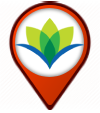
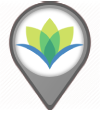
Prepare for demo

diff --git a/Client/src/app/app.component.ts b/Client/src/app/app.component.ts
@@ -1,8 +1,9 @@
 import { Component } from '@angular/core';
-import { tileLayer, latLng, circle, polygon, marker, icon, layerGroup, Map, control } from 'leaflet';
+import { tileLayer, latLng, circle, polygon, marker, icon, layerGroup, Map, control, Marker } from 'leaflet';
 import 'leaflet/dist/images/marker-shadow.png';
 import 'leaflet/dist/images/marker-icon.png';
-import { ClinicsService } from './clinics.service';
+import { ClinicsService } from './services/clinics.service';
+import Clinic from './models/clinic.model';
 
 @Component({
   selector: 'app-root',
@@ -14,37 +15,52 @@ export class AppComponent {
 
   constructor(private clinicsService: ClinicsService){}
 
-  overlayGroup = layerGroup();
+  allMarkers = layerGroup();
+  harshMarkers = layerGroup();
 
   options = {
     layers: [
       tileLayer('http://{s}.tile.openstreetmap.org/{z}/{x}/{y}.png', { maxZoom: 18, attribution: '...' }), 
-      this.overlayGroup,
+      this.allMarkers,
     ],
-    zoom: 10,
-    center: latLng(31.9692438, 34.8382341)
+    zoom: 14,
+    center: latLng(31.9222037, 34.866565)
   };
 
   layersControl = {
-    overlays: {
-      'כל המרפאות': this.overlayGroup,
+    baseLayers: {
+      'כל המרפאות': this.allMarkers,
+      'מחמירה':this.harshMarkers,
     }
   }
 
   onMapReady(map: Map){
     let clinics = this.clinicsService.getClinics();
     console.log(clinics);
-    clinics.forEach(clinic =>{
-      marker([clinic.Location.x, clinic.Location.y], {
-        icon: icon({
-           iconSize: [50, 56],
-           iconAnchor: [25, 56],
-           iconUrl: 'assets/'+clinic.HealthMedicalCenterName+'-'+clinic.ClinicStatus+'.png',
-           popupAnchor: [0, -40]
-        })
-      }).bindPopup(`<div style='font-size: 14px; text-align: center;'>
-        <h1> קופת חולים ${clinic.HealthMedicalCenterName} </h1> ${clinic.CityName}, ${clinic.StreetName} <div>`)
-        .addTo(this.overlayGroup);
+    clinics.forEach(clinic => {
+      this.createClinicMarker(clinic).addTo(this.allMarkers);
+      if(clinic.ShelterPolicy == "מחמירה"){
+        this.createClinicMarker(clinic).addTo(this.harshMarkers);
+      }
     });
+  }
+
+  createClinicMarker(clinic: Clinic): Marker{
+    return marker([clinic.Location.x, clinic.Location.y], {
+      icon: icon({
+          iconSize: [67, 76],
+          shadowSize: [67, 76],
+          iconAnchor: [33, 76],
+          shadowAnchor: [15, 76],
+          iconUrl: `assets/${clinic.HealthMedicalCenterName}-${clinic.ClinicStatus}.png`,
+          shadowUrl: 'assets/marker-shadow.png',
+          popupAnchor: [0, -40],
+      })
+    }).bindPopup(`
+        <div class="header"> קופת חולים ${clinic.HealthMedicalCenterName} </div> 
+        <div class="address">${clinic.CityName}, ${clinic.StreetName}</div>
+        <br>
+        <div class="policy"><b>מדיניות התגוננות:</b> ${clinic.ShelterPolicy}</div>
+      `)
   }
 }

diff --git a/Client/src/app/app.component.css b/Client/src/app/app.component.css
@@ -1,3 +1,24 @@
-.leaflet-popup-content{
-    color: blueviolet;
+.leaflet-container{
+    height: 1200px;
+}
+
+::ng-deep .leaflet-popup-content{
+    text-align: right;
+}
+
+::ng-deep .leaflet-popup-content .header{
+    font-size: 22px;
+    font-weight: bold;
+}
+
+::ng-deep .leaflet-popup-content .address{
+    font-size: 14px;
+}
+
+::ng-deep .leaflet-popup-content .policy{
+    font-size: 16px;
+}
+
+::ng-deep .leaflet-control-layers-base{
+    font-size: 20px;
 }

diff --git a/Client/src/app/services/clinics.service.ts b/Client/src/app/services/clinics.service.ts
@@ -1,6 +1,6 @@
 import { Injectable } from '@angular/core';
-import Clinic from './models/clinic.model';
-import data from '../assets/clinics.data.json'
+import Clinic from '../models/clinic.model';
+import data from '../../assets/demo.data.json';
 
 @Injectable({
   providedIn: 'root'

diff --git a/Client/src/app/app.component.html b/Client/src/app/app.component.html
@@ -1,5 +1,4 @@
-<div style="height: 1200px;"
-     leaflet 
+<div leaflet 
      [leafletOptions]="options"
      [leafletLayersControl]="layersControl"
      (leafletMapReady)="onMapReady($event)">
